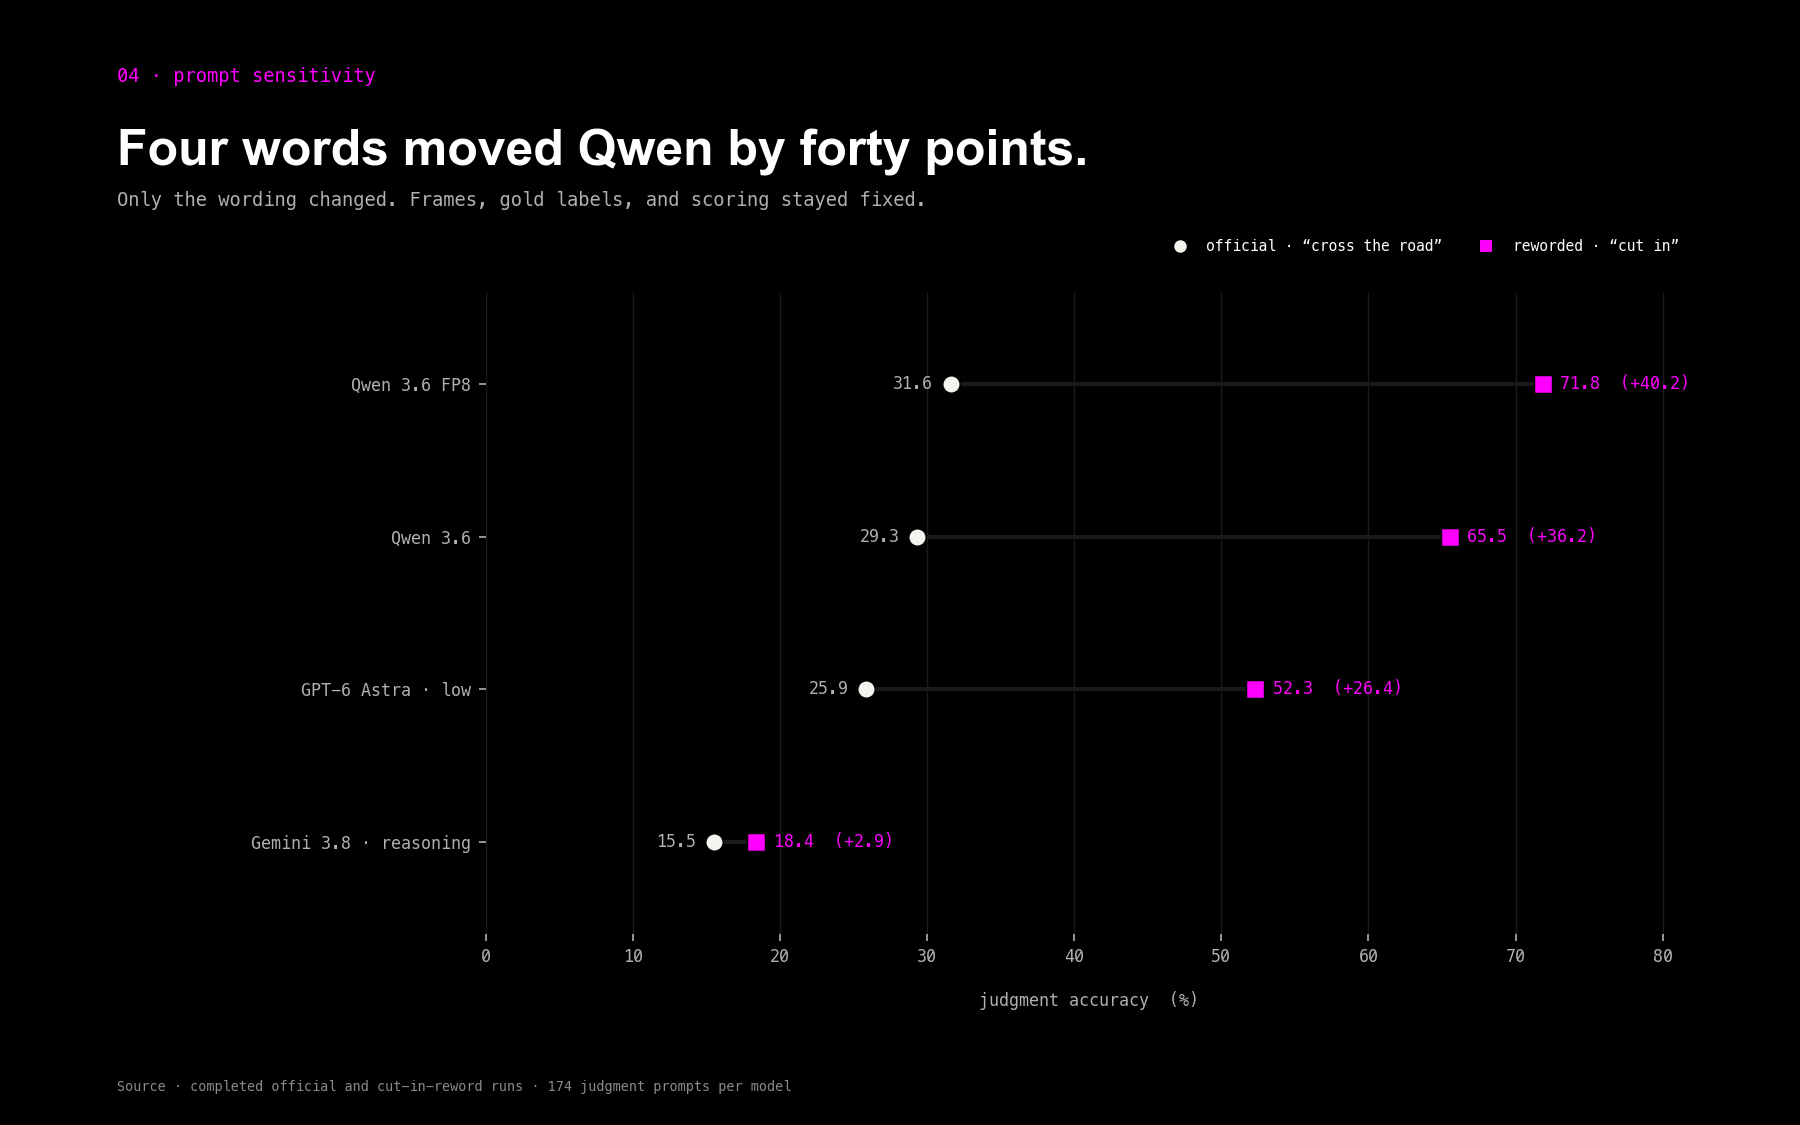
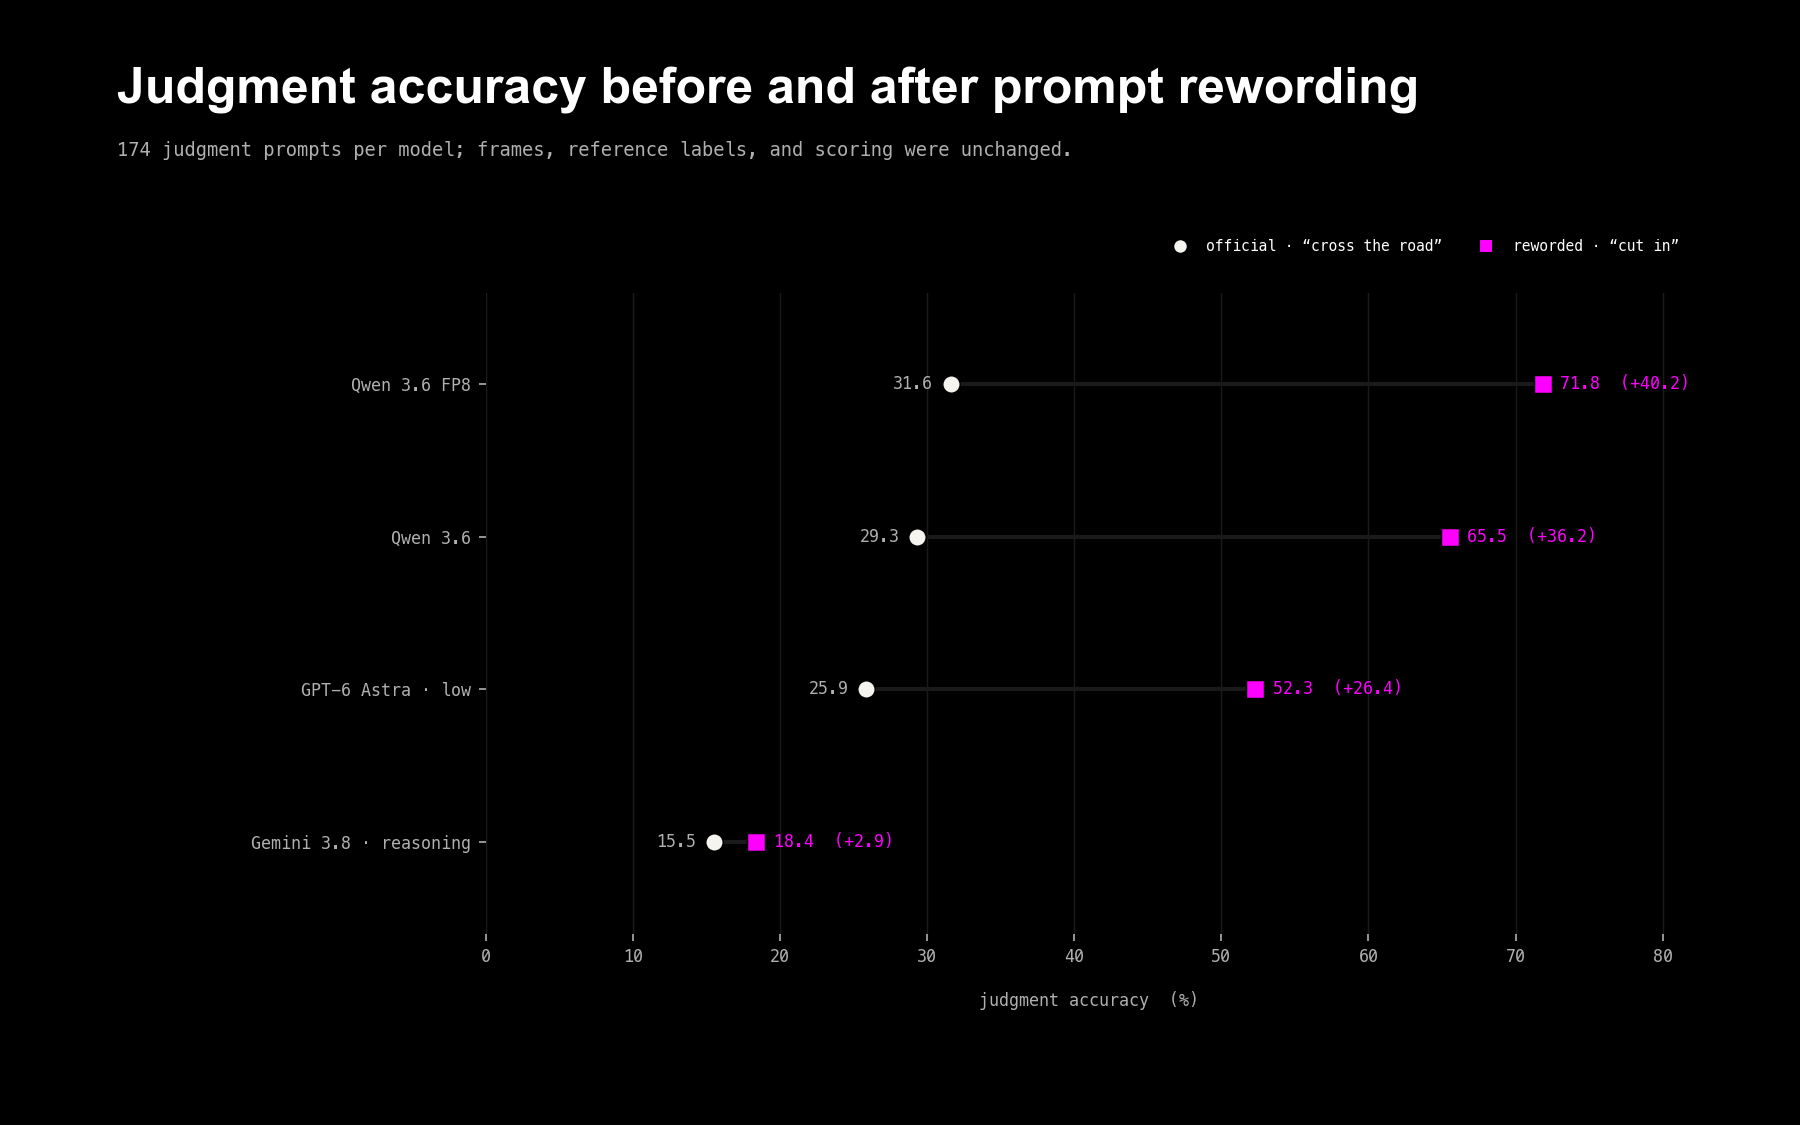
Update companion appendix spending and article figures

Changed region(s): [[0.0622, 0.0622, 0.8089, 0.1867]]

diff --git a/generate_article_visuals.py b/generate_article_visuals.py
@@ -125,7 +125,6 @@ def yes_or_no(value: str) -> str:
 
 
 def new_figure(
-    kicker: str,
     title: str,
     subtitle: str | None = None,
     *,
@@ -136,15 +135,6 @@ def new_figure(
     figure.text(
         0.065,
         0.94,
-        kicker,
-        color=COLORS["signal"],
-        fontfamily=MONO_FONT,
-        fontsize=9,
-        va="top",
-    )
-    figure.text(
-        0.065,
-        0.885,
         title,
         color=COLORS["paper"],
         fontfamily=DISPLAY_FONT,
@@ -155,7 +145,7 @@ def new_figure(
     if subtitle:
         figure.text(
             0.065,
-            0.83,
+            0.875,
             subtitle,
             color=COLORS["steel"],
             fontfamily=MONO_FONT,
@@ -163,19 +153,6 @@ def new_figure(
             va="top",
         )
     return figure
-
-
-def add_footer(figure: plt.Figure, text: str) -> None:
-    """Add a compact source note."""
-    figure.text(
-        0.065,
-        0.028,
-        text,
-        color=COLORS["mineral"],
-        fontfamily=MONO_FONT,
-        fontsize=6.5,
-        va="bottom",
-    )
 
 
 def add_divider(
@@ -313,9 +290,8 @@ def generate_prompt_anatomy(samples: list[dict]) -> Path:
     prediction = sample_by_id(run, PROMPT_SAMPLE_ID)["prediction"]
 
     figure = new_figure(
-        "01 · benchmark anatomy",
-        "Three questions. Two views. One scored label set.",
-        "The official task asks about “crossing the road” inside a benchmark named Vehicle_Cutin.",
+        "How the VLADBench vehicle cut-in task works",
+        "Raw and boxed frames are scored on two judgments and one reason label.",
     )
     add_image_stack(
         figure,
@@ -344,7 +320,7 @@ def generate_prompt_anatomy(samples: list[dict]) -> Path:
     }
     for heading, x in (
         ("Question sent to model", columns["question"]),
-        ("Qwen official", columns["model"]),
+        ("Qwen FP8 answer", columns["model"]),
         ("Gold label", columns["gold"]),
     ):
         figure.text(
@@ -423,10 +399,6 @@ def generate_prompt_anatomy(samples: list[dict]) -> Path:
         if index < len(rows) - 1:
             add_divider(figure, y - 0.065)
 
-    add_footer(
-        figure,
-        "Source · VLADBench Vehicle_Cutin · sample 3_1_1_0 · Qwen 3.6 35B-A3B FP8",
-    )
     return save_figure(figure, "01-benchmark-prompt-anatomy.png")
 
 
@@ -442,7 +414,8 @@ def generate_latency_plot() -> Path:
         results,
         output_path,
         reasoning=None,
-        kicker="03 · performance sweep",
+        kicker=None,
+        title="Request latency and benchmark score",
     )
     if not generated:
         raise RuntimeError("No timed benchmark runs were available")
@@ -458,12 +431,12 @@ def short_cost_model_name(model: str) -> str:
         "Qwen/Qwen3.6-35B-A3B": "Qwen 3.6 35B-A3B",
         "moonshotai/Kimi-K3": "Kimi K3",
         "google/gemma-4-E2B-it": "Gemma 4 E2B-IT",
-        "google/gemma-4-26B-A4B-it": "Gemma 4 26B-A4B-IT · DNF",
+        "google/gemma-4-26B-A4B-it": "Gemma 4 26B-A4B · DNF",
         "google/gemma-4-31B-it": "Gemma 4 31B-IT",
         "Qwen/Qwen3.5-0.8B": "Qwen 3.5 0.8B · partial",
         "google/gemma-4-E4B-it": "Gemma 4 E4B-IT",
-        "Qwen/Qwen3.5-35B-A3B-FP8": "Qwen 3.5 35B-A3B-FP8",
-        "Qwen/Qwen3.6-35B-A3B-FP8": "Qwen 3.6 35B-A3B-FP8",
+        "Qwen/Qwen3.5-35B-A3B-FP8": "Qwen 3.5 35B-A3B FP8",
+        "Qwen/Qwen3.6-35B-A3B-FP8": "Qwen 3.6 35B-A3B FP8",
         "openai/gpt-6-astra": "GPT-6 Astra",
         "google/gemini-3.8-flash": "Gemini 3.8 Flash",
         "openai/gpt-5.6-luna": "GPT-5.6 Luna",
@@ -480,11 +453,14 @@ def generate_observed_spend() -> Path:
         reverse=True,
     )
     figure = new_figure(
-        "02 · observed spend",
-        "Where the sweep spend accumulated.",
-        "Observed Modal and OpenRouter billing—not normalized per request or configuration.",
+        "Recorded spend by model",
+        (
+            f"Recorded total: ${costs['known_total_usd']:.3f} · "
+            "billing coverage shown below each bar; GPU idle time may be included."
+        ),
+        figsize=(12, 9),
     )
-    axes = figure.add_axes((0.285, 0.12, 0.66, 0.68))
+    axes = figure.add_axes((0.19, 0.12, 0.755, 0.68))
     axes.set_facecolor(COLORS["midnight"])
     y_positions = list(reversed(range(len(entries))))
     values = [entry["total_usd"] for entry in entries]
@@ -505,17 +481,17 @@ def generate_observed_spend() -> Path:
         y_positions,
         values,
         color=colors,
-        height=0.54,
+        height=0.38,
     )
     for y, entry in zip(y_positions, entries):
         amount = entry["total_usd"]
-        amount_label = f"${amount:.4f}" if amount < 0.1 else f"${amount:.2f}"
+        amount_label = f"${amount:.3f}" if round(amount, 2) != amount else f"${amount:.2f}"
         provider = entry["provider"]
         hardware = entry["hardware"]
         infrastructure = provider if hardware is None else f"{provider} · {hardware}"
         axes.text(
             amount + 0.18,
-            y + 0.08,
+            y,
             amount_label,
             color=(
                 COLORS["signal"]
@@ -528,13 +504,41 @@ def generate_observed_spend() -> Path:
             fontweight="bold",
             va="center",
         )
+        # Coverage comes from billing associations, never output-file counts.
+        billed_runs = list(dict.fromkeys(
+            run
+            for charge in entry["charges"]
+            for run in charge.get("runs", [charge.get("run")])
+            if run
+        ))
+        if billed_runs:
+            variants = []
+            if any("reasoning" in run for run in billed_runs):
+                variants.append(
+                    "low reasoning" if entry["model"] == "openai/gpt-6-astra"
+                    else "reasoning"
+                )
+            if any("reasoning" not in run for run in billed_runs):
+                variants.append("non-reasoning")
+            if any("reword" in run for run in billed_runs):
+                variants.append("original + reworded prompts")
+            count = len(billed_runs)
+            provisional = entry["allocation_status"] == "needs_confirmation"
+            coverage = f"{count} {'runs' if count != 1 else 'run'}"
+            if provisional:
+                coverage += " provisionally linked"
+            coverage += " · " + ", ".join(variants)
+        else:
+            coverage = "run coverage unallocated"
+            if len(entry["charges"]) > 1:
+                coverage = f"{len(entry['charges'])} charges · " + coverage
         axes.text(
-            amount + 0.18,
-            y - 0.16,
-            infrastructure,
-            color=COLORS["mineral"],
+            0.12,
+            y - 0.34,
+            f"{infrastructure} · {coverage}",
+            color=COLORS["steel"],
             fontfamily=MONO_FONT,
-            fontsize=5.8,
+            fontsize=6.5,
             va="center",
         )
     axes.set_yticks(y_positions, labels)
@@ -576,14 +580,6 @@ def generate_observed_spend() -> Path:
         prop={"family": MONO_FONT, "size": 7},
         labelcolor=COLORS["paper"],
         ncol=2,
-    )
-    add_footer(
-        figure,
-        (
-            "Source · recorded endpoint and account charges"
-            f" · captured total ${costs['known_total_usd']:.2f}"
-            " · startup and idle time may be included"
-        ),
     )
     return save_figure(figure, "02-observed-sweep-spend.png")
 
@@ -629,9 +625,8 @@ def generate_prompt_rewrite_comparison() -> Path:
         for label, official, reworded in runs
     ]
     figure = new_figure(
-        "04 · prompt sensitivity",
-        "Four words moved Qwen by forty points.",
-        "Only the wording changed. Frames, gold labels, and scoring stayed fixed.",
+        "Judgment accuracy before and after prompt rewording",
+        "174 judgment prompts per model; frames, reference labels, and scoring were unchanged.",
     )
     axes = figure.add_axes((0.27, 0.17, 0.67, 0.57))
     axes.set_facecolor(COLORS["midnight"])
@@ -730,10 +725,6 @@ def generate_prompt_rewrite_comparison() -> Path:
         labelcolor=COLORS["paper"],
         ncol=2,
     )
-    add_footer(
-        figure,
-        "Source · completed official and cut-in-reword runs · 174 judgment prompts per model",
-    )
     return save_figure(figure, "04-prompt-rewrite-comparison.png")
 
 
@@ -747,9 +738,8 @@ def generate_label_imbalance(samples: list[dict]) -> Path:
     negative_count = len(samples) - positive_count
 
     figure = new_figure(
-        "05 · label distribution",
-        "This is a yes-set, not a fleet distribution.",
-        "A detector that always says yes scores 98.9% on the judgment prompts.",
+        "Vehicle cut-in reference label distribution",
+        "An always-yes prediction achieves 98.9% judgment accuracy.",
     )
     figure.text(
         0.075,
@@ -813,7 +803,7 @@ def generate_label_imbalance(samples: list[dict]) -> Path:
     figure.text(
         0.08,
         0.19,
-        "One negative clip, asked twice.",
+        "One negative clip with two judgment prompts",
         color=COLORS["paper"],
         fontfamily=DISPLAY_FONT,
         fontsize=14,
@@ -837,10 +827,6 @@ def generate_label_imbalance(samples: list[dict]) -> Path:
         label="The same clip · target boxed",
         border=COLORS["signal"],
         zorder=2,
-    )
-    add_footer(
-        figure,
-        "Source · VLADBench Vehicle_Cutin · 87 clips / 174 yes-no judgments",
     )
     return save_figure(figure, "05-label-imbalance.png")
 
@@ -875,9 +861,8 @@ def generate_reason_taxonomy(samples: list[dict]) -> Path:
     values.append(("8 other labels", other_count))
 
     figure = new_figure(
-        "07 · reason labels",
-        "The dominant “reason” is not visible in the pixels.",
-        "The benchmark mixes motive, geometry, and maneuver labels in one answer list.",
+        "Distribution of reference reason labels",
+        "86 scored answers; labels mix motive, geometry, and maneuver. One malformed question excluded.",
     )
     axes = figure.add_axes((0.30, 0.12, 0.64, 0.66))
     axes.set_facecolor(COLORS["midnight"])
@@ -930,10 +915,6 @@ def generate_reason_taxonomy(samples: list[dict]) -> Path:
         label.set_fontfamily(MONO_FONT)
     for spine in axes.spines.values():
         spine.set_visible(False)
-    add_footer(
-        figure,
-        "Source · VLADBench Vehicle_Cutin gold reason labels · malformed q3 excluded",
-    )
     return save_figure(figure, "07-reason-label-distribution.png")
 
 
@@ -949,9 +930,8 @@ def generate_box_flip(samples: list[dict]) -> Path:
         for item in run
     )
     figure = new_figure(
-        "06 · attribution sensitivity",
-        "Draw a box. Get a different answer.",
-        "Same frames. Same words. Only the red target rectangle changed.",
+        "Effect of a target box on Qwen’s answer",
+        "Qwen 3.6 35B-A3B FP8 · official prompt · identical frames with and without a target box.",
         figsize=(12, 6.75),
     )
     add_image_stack(
@@ -1014,15 +994,11 @@ def generate_box_flip(samples: list[dict]) -> Path:
     figure.text(
         0.92,
         0.135,
-        "Qwen answers flipped",
+        "clips with different answers",
         color=COLORS["steel"],
         fontfamily=MONO_FONT,
         fontsize=7,
         ha="right",
-    )
-    add_footer(
-        figure,
-        "Source · official prompt · Qwen 3.6 35B-A3B FP8 · sample 3_1_1_54",
     )
     return save_figure(figure, "06-bounding-box-answer-flip.png")
 

diff --git a/update_leaderboard.py b/update_leaderboard.py
@@ -418,7 +418,8 @@ def generate_request_latency_plot(
     plot_path: Path,
     reasoning: str | None,
     *,
-    kicker: str = "vehicle cut-in",
+    kicker: str | None = "vehicle cut-in",
+    title: str = "Latency vs. score",
 ) -> bool:
     def is_in_scope(result: dict) -> bool:
         if reasoning is None:
@@ -515,19 +516,20 @@ def generate_request_latency_plot(
         if reasoning is None
         else f"reasoning {reasoning.lower()}"
     )
-    axes.text(
-        0.0,
-        1.14,
-        f"{kicker}  ·  {scope}",
-        transform=axes.transAxes,
-        fontname=MONO_FONT,
-        fontsize=9,
-        color=EVENTUAL["signal"],
-        ha="left",
-        va="bottom",
-    )
+    if kicker is not None:
+        axes.text(
+            0.0,
+            1.14,
+            f"{kicker}  ·  {scope}",
+            transform=axes.transAxes,
+            fontname=MONO_FONT,
+            fontsize=9,
+            color=EVENTUAL["signal"],
+            ha="left",
+            va="bottom",
+        )
     axes.set_title(
-        "Latency vs. score",
+        title,
         fontname=DISPLAY_FONT,
         fontsize=22,
         fontweight="bold",

diff --git a/APPENDIX.md b/APPENDIX.md
@@ -8,6 +8,12 @@ This appendix contains the detailed results, attribution analysis, related work,
 
 The complete run tables are in the [official leaderboard](LEADERBOARD.md) and [reworded-prompt leaderboard](LEADERBOARD-reword.md).
 
+## Observed sweep spend
+
+Actual recorded spend for the sweep was $53.824, or about $54. The chart labels identify billing coverage where known.
+
+![Observed Modal and OpenRouter spend across the model sweep](plots/article/02-observed-sweep-spend.png)
+
 ## Exact prompt-rewrite results
 
 | Model               | Judgment, official | Judgment, reworded | False positives |
